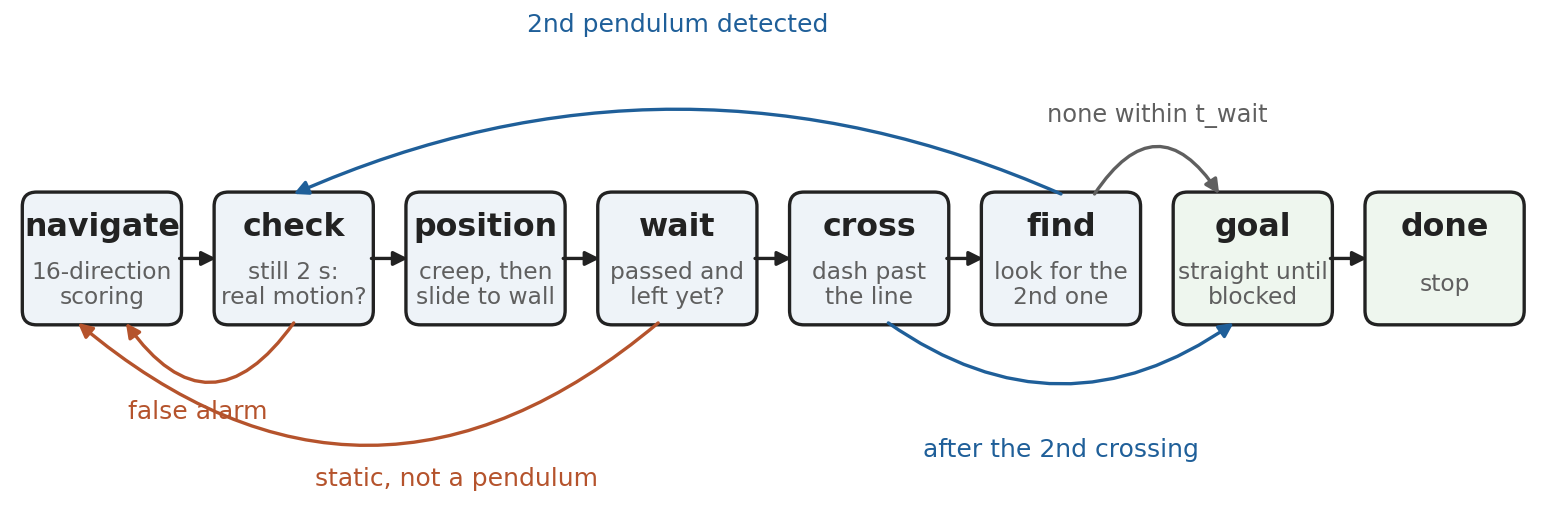
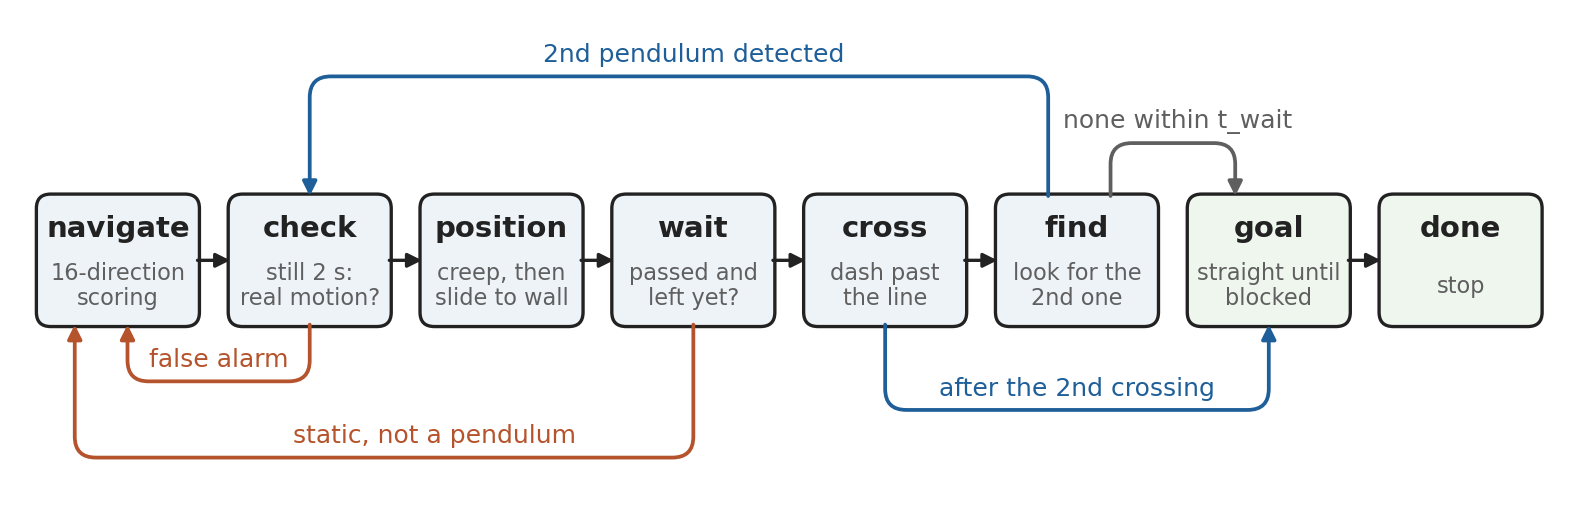
Figure 1 v2 (labels on their own routes); user's .odt is now the master; context 0000 F2

diff --git a/claude_tools/report/fig1.py b/claude_tools/report/fig1.py
@@ -1,0 +1,72 @@
+# Figure 1 v2: pendulum state machine with orthogonal return routes; each label sits on its own route
+import matplotlib
+matplotlib.use('Agg')
+import matplotlib.pyplot as plt
+import numpy as np
+from matplotlib.patches import FancyBboxPatch, FancyArrowPatch
+from matplotlib.path import Path
+OUT = '/tmp/claude-1000/-home-jacky-Downloads-rb2301-final-project-main/046b2aa8-8f72-439a-aad2-61e73ef2cc4b/scratchpad/report/fig/'
+plt.rcParams.update({'font.family': 'DejaVu Sans'})
+INK, MUTED, ACC, ACC2 = '#222222', '#5f5f5f', '#1f5f99', '#b5532c'
+
+fig, ax = plt.subplots(figsize=(6.6, 2.17), dpi=300)
+ax.set_xlim(0, 16); ax.set_ylim(0, 5.26); ax.axis('off')
+states = [('navigate', '16-direction\nscoring'), ('check', 'still 2 s:\nreal motion?'),
+          ('position', 'creep, then\nslide to wall'), ('wait', 'passed and\nleft yet?'),
+          ('cross', 'dash past\nthe line'), ('find', 'look for the\n2nd one'),
+          ('goal', 'straight until\nblocked'), ('done', 'stop')]
+w, h, y = 1.66, 1.35, 2.62
+xs = [1.0 + i * 2.0 for i in range(8)]
+box = {}
+for (name, sub), x in zip(states, xs):
+    end = name in ('goal', 'done')
+    ax.add_patch(FancyBboxPatch((x - w/2, y - h/2), w, h, boxstyle='round,pad=0.02,rounding_size=0.15',
+                                fc='#eef6ee' if end else '#eef3f8', ec=INK, lw=0.8))
+    ax.text(x, y + 0.33, name, ha='center', va='center', fontsize=7.0, weight='bold', color=INK)
+    ax.text(x, y - 0.27, sub, ha='center', va='center', fontsize=5.4, color=MUTED, linespacing=1.1)
+    box[name] = x
+top, bot = y + h/2, y - h/2
+
+def arrow(p1, p2, color=INK):
+    ax.add_patch(FancyArrowPatch(p1, p2, arrowstyle='-|>', mutation_scale=7, lw=0.8, color=color, shrinkA=0, shrinkB=0))
+for a_, b_ in [('navigate', 'check'), ('check', 'position'), ('position', 'wait'), ('wait', 'cross'),
+               ('cross', 'find'), ('goal', 'done')]:
+    arrow((box[a_] + w/2, y), (box[b_] - w/2, y))
+
+def route(pts, color, r=0.22):
+    """Polyline with rounded corners and an arrowhead at the end."""
+    pts = [np.array(p, float) for p in pts]
+    verts, codes = [pts[0]], [Path.MOVETO]
+    for a, b, c in zip(pts[:-2], pts[1:-1], pts[2:]):
+        u, v = (a - b) / np.linalg.norm(a - b), (c - b) / np.linalg.norm(c - b)
+        verts += [b + u * r, b, b + v * r]; codes += [Path.LINETO, Path.CURVE3, Path.CURVE3]
+    verts.append(pts[-1]); codes.append(Path.LINETO)
+    ax.add_patch(FancyArrowPatch(path=Path(verts, codes), arrowstyle='-|>', mutation_scale=7, lw=0.9, color=color))
+
+def label(x, yl, text, color, va):
+    ax.text(x, yl, text, ha='center', va=va, fontsize=6, color=color,
+            bbox=dict(boxstyle='square,pad=0.08', fc='white', ec='none'))
+
+# above the row
+y_det, y_none = 4.55, 3.85
+route([(box['find'] - 0.3, top), (box['find'] - 0.3, y_det), (box['check'], y_det), (box['check'], top)], ACC)
+label((box['check'] + box['find']) / 2, y_det + 0.1, '2nd pendulum detected', ACC, 'bottom')
+route([(box['find'] + 0.35, top), (box['find'] + 0.35, y_none), (box['goal'] - 0.35, y_none), (box['goal'] - 0.35, top)], MUTED)
+label((box['find'] + box['goal']) / 2 + 0.05, y_none + 0.1, 'none within t_wait', MUTED, 'bottom')
+# below the row
+y_fa, y_st, y_cr = 1.35, 0.55, 1.05
+route([(box['check'], bot), (box['check'], y_fa), (box['navigate'] + 0.1, y_fa), (box['navigate'] + 0.1, bot)], ACC2)
+label((box['check'] + box['navigate'] + 0.1) / 2, y_fa + 0.1, 'false alarm', ACC2, 'bottom')
+route([(box['wait'], bot), (box['wait'], y_st), (box['navigate'] - 0.45, y_st), (box['navigate'] - 0.45, bot)], ACC2)
+label(4.3, y_st + 0.1, 'static, not a pendulum', ACC2, 'bottom')
+route([(box['cross'], bot), (box['cross'], y_cr), (box['goal'], y_cr), (box['goal'], bot)], ACC)
+label((box['cross'] + box['goal']) / 2, y_cr + 0.1, 'after the 2nd crossing', ACC, 'bottom')
+fig.savefig(OUT + 'fig1_states_raw.png', bbox_inches='tight', pad_inches=0.03)
+plt.close(fig)
+
+# pad to the old picture's aspect (1546 x 508) so it drops into the user's document frame unchanged
+import cv2
+im = cv2.imread(OUT + 'fig1_states_raw.png'); H, W = im.shape[:2]; target = 1546 / 508
+if W / H > target: pad = int(round(W / target)) - H; im = cv2.copyMakeBorder(im, pad // 2, pad - pad // 2, 0, 0, cv2.BORDER_CONSTANT, value=(255, 255, 255))
+else: pad = int(round(H * target)) - W; im = cv2.copyMakeBorder(im, 0, 0, pad // 2, pad - pad // 2, cv2.BORDER_CONSTANT, value=(255, 255, 255))
+cv2.imwrite(OUT + 'fig1_states.png', im); print(im.shape, im.shape[1] / im.shape[0], target)

diff --git a/claude_session_context.md b/claude_session_context.md
@@ -96,6 +96,12 @@ At most 5 pages. Parts: **Code explanation** (main logic and organisation, to ea
 - **User decisions (2026-11-14):** it is **graded run 3**; drop "hardest obstacle placement" from the caption; runs 1 and 2 "were both very successful and cleared comfortably" (say so in the report); times/notes of runs 1-2 are not worth including, so **Table 2 (runs) was removed** and the sim table renumbered to Table 2; the prof placed **all** the cylinders (the user thinks it's unimportant; Claude kept one clause because it's what makes run 3 a test of the trap escape).
 - **In the docx (rebuilt 2026-11-14, still 5 pages, about 1/4 of page 5 free):** intro and 3.1 say runs 1-2 cleared comfortably and run 3 had every cylinder placed by the prof; Figure 2 (16 cm wide) at the end of 3.1 with the caption "Graded run 3; path traced from the video (approximate). ..."; 3.2 bullets reference markers 2, 6, 5 and the lane-shift sentence references 7; 3.4 adds "run 3, which lasted 1 min 25 s, had only two or three false alarms, each costing a 2 s stop (Figure 2, 3)". The docx/pdf and the figure are pushed: the user said it's fine to put the frames in the public repo because no faces are shown (2026-11-14).
 
+### F2. The user now edits the report themselves (2026-11-14): THEIR .odt IS THE MASTER
+- **Master file:** `~/Downloads/rb2301_final_project-main/rb2301_final_project_report.odt` (untracked in their repo; the `.docx` next to it is just my earlier draft). `build.py` is now OUT OF DATE with their text; do not rebuild from it over their edits. For changes, work on a COPY of their .odt (unzip, edit `content.xml` or swap a file in `Pictures/`, re-zip with `mimetype` first and stored) and send it back; never overwrite their file.
+- **Their edits (summary):** title "[group 5, names, matriculation numbers]"; playful tone ("the cunning Professor", "the one run to fool them all"); "Time spent" renamed **Proximity** everywhere (matches `proximity_score` in the code), Table 1 row "−0.25 × Σ..."; bullets "Room_score / Novelty_score / Proximity_score (a negative score)"; "2.3 Pendulums (aka the dynamic obstacles)"; removed every [VET] marker (= confirmed: no contact, smooth segments, all pendulums detected/confirmed/crossed, occupancy grid + A* first design; A = 0.8 m kept, A = 0.5 case removed); removed "(videos ... submitted separately)"; 3.3 dropped the "why compare with the current score" sentence and changed reversals to "about 4 to 0.5" (measured 3.8 -> 0.4); "2D" -> "private simulated"/"our simulator"; Other limitations reduced to the no-turn/tight-gaps point; Reflections: "very first algorithm design", plus a new personal paragraph in first person (panic-tuning on the first real run, the Optitrack heading mismatch). Figure 2 caption lost its ending ("...the goal stop follow").
+- **Figure 1 v2** (`claude_tools/report/fig1.py`): orthogonal routes with rounded corners, every label on its own route with a white backing (fixes "false alarm" overlapping an arrow); padded to the old 1546:508 aspect and swapped into a copy of their .odt as `Pictures/100000010000060A000001FCCB39034E.png` (still 5 pages).
+- **Cleaned code: the user is submitting it** (2026-11-14). Their `main` is still `6aadf26`; they copy it in themselves.
+
 ### G. Waiting on the user / next steps
 1. **The user sends:**
    - run facts: times, trap placements, notes per run;
